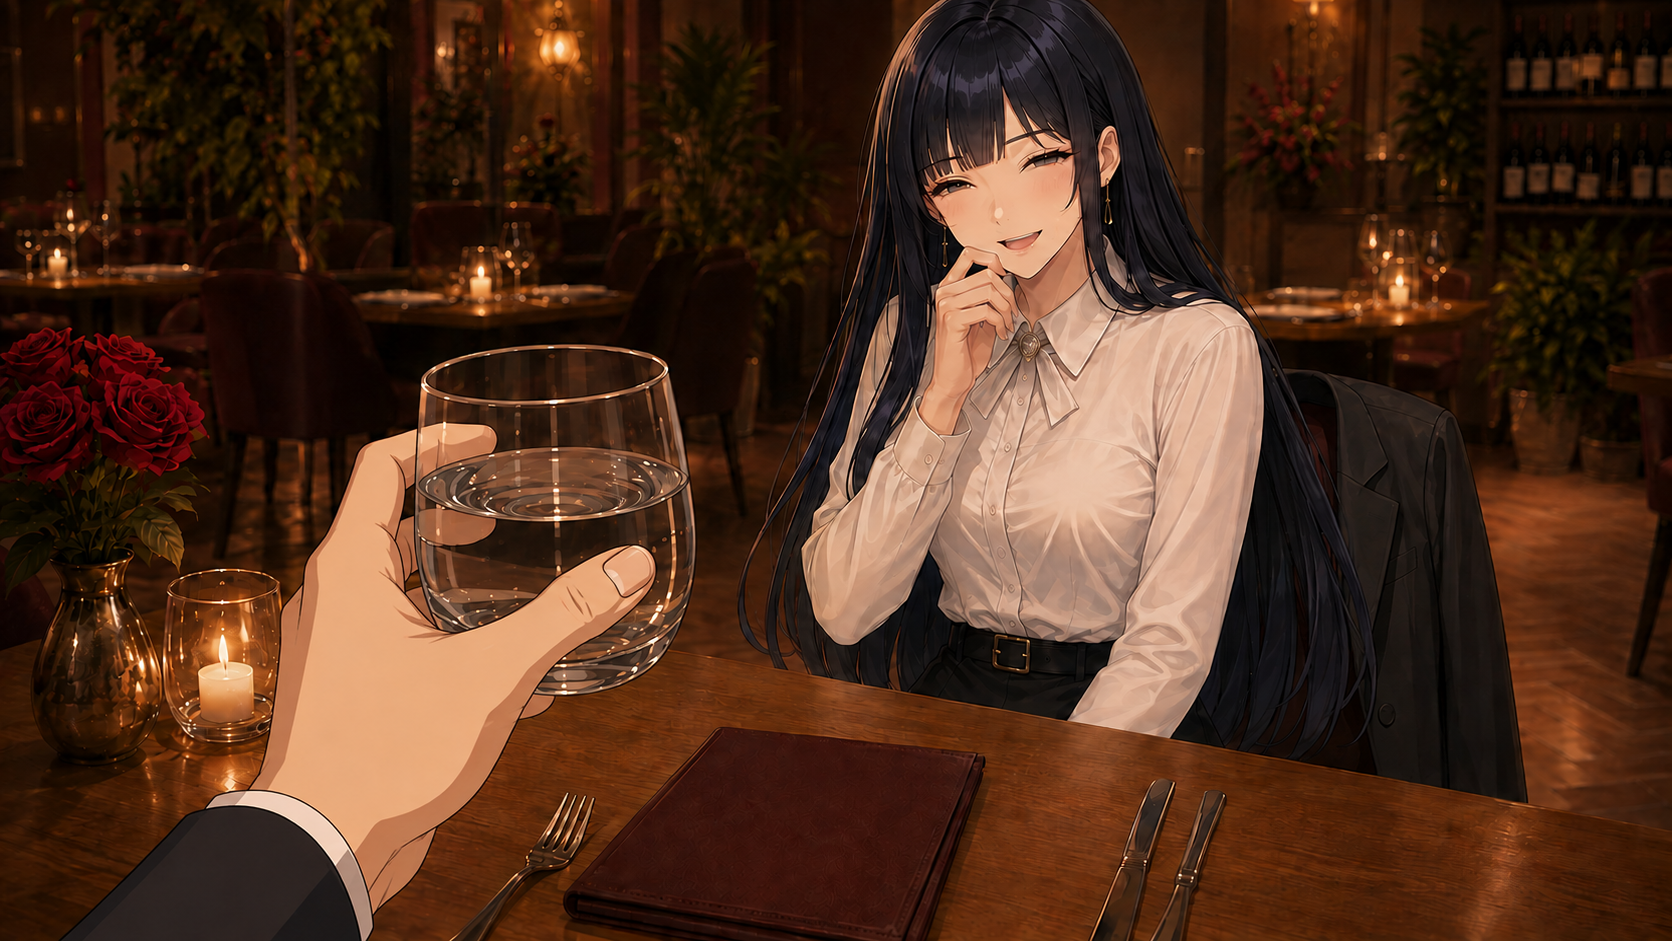
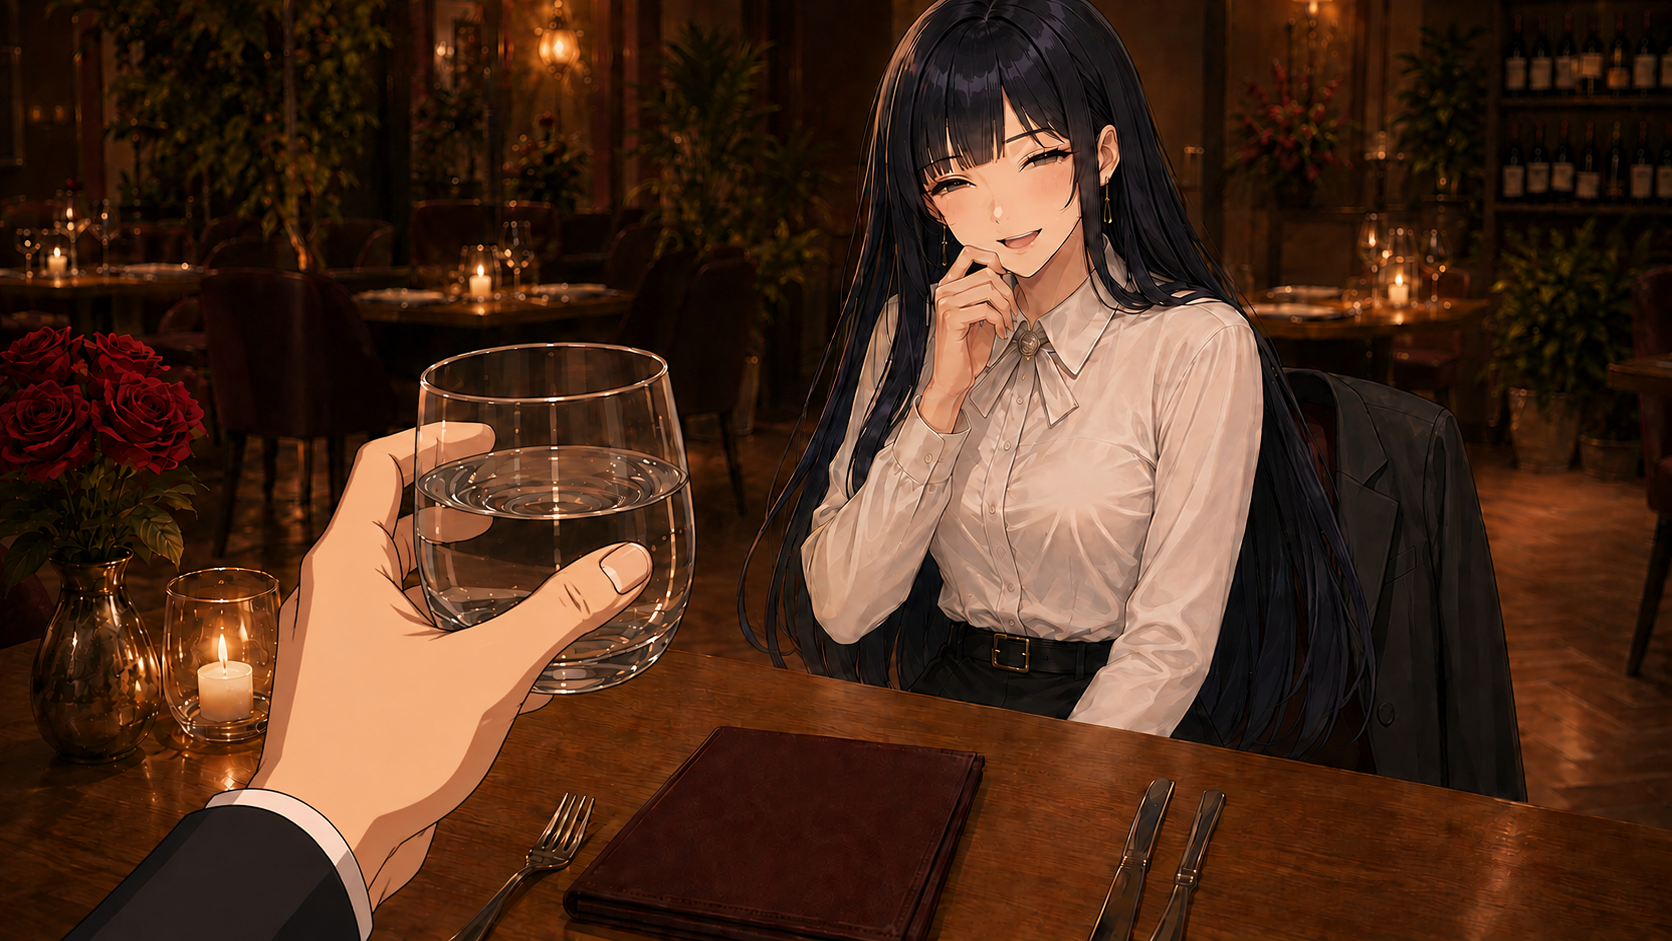
fix(story): enforce anime hand rendering

diff --git a/game.js b/game.js
@@ -81,7 +81,7 @@ import { applyDay16V4GameChoice, completeDay16V4GameChapter, getDay16V4Compatibi
 import { LOCKED_DAY17_SCENE_ID, applyLockedDay17ChoiceState, getLockedDay17LegacyChoice, getLockedDay17ResumePresentation, getLockedDay17Segment } from "./src/day17-campaign-runtime.mjs?v=1";
 import { applyDay17V4GameChoice, completeDay17V4GameChapter, getDay17V4Compatibility, getDay17V4GameResumePresentation, getDay17V4GameSegment, prepareDay17V4GameEntry } from "./src/day17-v4-game-bridge.mjs?v=3";
 import { LOCKED_DAY18_SCENE_ID, applyLockedDay18ChoiceState as applyLegacyDay18ChoiceState, getLockedDay18LegacyChoice, getLockedDay18ResumePresentation as getLegacyDay18ResumePresentation, getLockedDay18Segment as getLegacyDay18Segment } from "./src/day18-campaign-runtime.mjs?v=1";
-import {prepareDay18V4GameEntry, getDay18V4GameSegment, getDay18V4GameResumePresentation, applyDay18V4GameChoice, completeDay18V4GameChapter} from "./src/day18-v4-game-bridge.mjs?v=56";
+import {prepareDay18V4GameEntry, getDay18V4GameSegment, getDay18V4GameResumePresentation, applyDay18V4GameChoice, completeDay18V4GameChapter} from "./src/day18-v4-game-bridge.mjs?v=57";
 import { LOCKED_DAY19_SCENE_ID, applyLockedDay19ChoiceState, getLockedDay19LegacyChoice, getLockedDay19ResumePresentation, getLockedDay19Segment } from "./src/day19-campaign-runtime.mjs?v=1";
 import { applyDay19V4GameChoice, completeDay19V4GameChapter, getDay19V4GameCompatibility, getDay19V4GameResumePresentation, getDay19V4GameSegment, prepareDay19V4GameEntry } from "./src/day19-v4-game-bridge.mjs?v=4";
 import { LOCKED_DAY20_SCENE_ID, applyLockedDay20ChoiceState, getLockedDay20LegacyChoice, getLockedDay20ResumePresentation, getLockedDay20Segment } from "./src/day20-campaign-runtime.mjs?v=1";

diff --git a/tests/day19-v4-browser-entry.html b/tests/day19-v4-browser-entry.html
@@ -15,7 +15,7 @@ import {createGirlfriendFromProfile} from '../src/girlfriend-manager.mjs';
 import {SaveManager} from '../src/save-manager.mjs';
 import {GAME_MODES} from '../src/scenario-state.mjs';
 import {beginDay18V4,applyDay18V4Choice} from '../src/day18-v4-state-contract.mjs';
-import {completeDay18V4GameChapter} from '../src/day18-v4-game-bridge.mjs?v=56';
+import {completeDay18V4GameChapter} from '../src/day18-v4-game-bridge.mjs?v=57';
 const backupKey='day19-v4-qa-save-backup';
 const keys=[SaveManager.key,SaveManager.keyForMode(GAME_MODES.MARRIAGE_30),SaveManager.keyForMode(GAME_MODES.FREE_ROMANCE)];
 function backup(){if(sessionStorage.getItem(backupKey)===null)sessionStorage.setItem(backupKey,JSON.stringify(Object.fromEntries(keys.map(key=>[key,localStorage.getItem(key)]))));}

diff --git a/tests/day18-v4-browser-entry.html b/tests/day18-v4-browser-entry.html
@@ -41,7 +41,7 @@ import {createInitialState} from '../src/game-core.mjs';
 import {createGirlfriendFromProfile} from '../src/girlfriend-manager.mjs';
 import {SaveManager} from '../src/save-manager.mjs';
 import {GAME_MODES} from '../src/scenario-state.mjs';
-import {prepareDay18V4GameEntry,applyDay18V4GameChoice} from '../src/day18-v4-game-bridge.mjs?v=56';
+import {prepareDay18V4GameEntry,applyDay18V4GameChoice} from '../src/day18-v4-game-bridge.mjs?v=57';
 const backupKey = 'day18-v4-qa-save-backup';
 const keys = [SaveManager.key, SaveManager.keyForMode(GAME_MODES.MARRIAGE_30)];
 document.querySelectorAll('[data-route]').forEach(button => button.addEventListener('click', () => {

diff --git a/index.html b/index.html
@@ -279,6 +279,6 @@
     </article>
   </section>
   <div id="toast" class="toast"></div>
-  <script type="module" src="game.js?v=251"></script>
+  <script type="module" src="game.js?v=252"></script>
 </body>
 </html>

diff --git a/docs/DAY18_V4_HAND_STYLE_CORRECTION.md b/docs/DAY18_V4_HAND_STYLE_CORRECTION.md
@@ -24,7 +24,9 @@ DAY 18 손 포함 CG를 전수 육안 감사했다. `yuri-menu-wait-water-v1`, `
 
 2026-09-05 재노출 신고에서는 첨부 화면이 `yuri-menu-wait-water-v1.png`와 일치함을 확인했다. 소스가 이미 v2를 가리키더라도 캐시나 구버전 화면에서 혼동이 재발하지 않도록 전경 손의 외곽선과 2~3단계 셀 명암을 더 강제한 `yuri-menu-wait-water-v3.png`를 새 파일명으로 만들었다. 런타임·브리지·fixture·최상위 캐시 버전을 동시에 갱신하고 v1과 v2를 모두 런타임 금지 목록에 넣었다.
 
-후속 재발 방지에서는 런타임 경로 차단만으로는 오래 열린 탭·이전 저장·중간 캐시가 반려 URL을 재요청할 수 있다고 판단했다. 위 표의 반려 v1 파일과 유리 물 장면 v2 파일을 각각의 승인 v2/v3 비트맵과 바이트 단위로 동일하게 격리 교체했다. 현재 런타임은 여전히 새 버전 파일명만 참조하지만, 구버전 클라이언트가 과거 URL을 요청해도 실사 손 원본은 전달되지 않는다.
+같은 화면이 다시 신고된 후 `yuri-menu-wait-water-v4.png`를 정밀 편집으로 제작했다. 전경 손·노출 손목만 굵고 선명한 애니메이션 외곽선과 분리된 셀 명암으로 재고정하고, 유리의 얼굴·의상·자세, 물잔의 위치·수위, 식탁·메뉴·배경 구도는 보존했다. 런타임은 v4만 참조하며 v1~v3는 모두 런타임 금지 및 v4와 바이트 동일한 안전 대체본으로 격리했다. 캐시 사슬은 `game.js?v=252` → bridge v57 → 새 v4 이미지 URL로 갱신했다.
+
+후속 재발 방지에서는 런타임 경로 차단만으로는 오래 열린 탭·이전 저장·중간 캐시가 반려 URL을 재요청할 수 있다고 판단했다. 위 표의 반려 v1 파일과 유리 물 장면 v2·v3 파일을 각각의 승인 v2/v4 비트맵과 바이트 단위로 동일하게 격리 교체했다. 현재 런타임은 여전히 새 버전 파일명만 참조하지만, 구버전 클라이언트가 과거 URL을 요청해도 실사 손 원본은 전달되지 않는다.
 
 모든 수정은 기존 구도·행동·소품을 보존하는 정밀 편집으로 진행했다. 공통 최종 프롬프트 계약은 `clean 2D anime cel-shaded visual-novel line art`, 단순화한 관절과 2~3단계 넓은 명암, 사진식 피부·모공·혈관·체모·서브서피스·젖은 피부 하이라이트 금지다. imagegen 생성 원본은 Codex generated_images 보관 위치에 남겨 두고 프로젝트에는 승인된 버전 파일을 복사했다.
 
@@ -32,11 +34,16 @@ DAY 18 손 포함 CG를 전수 육안 감사했다. `yuri-menu-wait-water-v1`, `
 
 ## 런타임 계약
 
-- 유리 물 장면은 v3, 나머지 교체 자산은 위 v2를 참조한다.
-- 반려된 유리 물 v1·v2와 나머지 v1 이름은 실행 소스에 다시 들어갈 수 없다.
-- 자동 테스트는 모든 반려 파일명이 생성된 DAY18 세그먼트 어디에도 나타나지 않는지, 승인된 v3/v2 자산이 실제로 존재하는지 함께 검사한다.
-- 자동 테스트는 이미 배포된 반려 URL 10개가 대응 승인본과 바이트 단위로 동일한지도 검사한다.
+- 유리 물 장면은 v4, 나머지 교체 자산은 위 v2를 참조한다.
+- 반려된 유리 물 v1·v2·v3와 나머지 v1 이름은 실행 소스에 다시 들어갈 수 없다.
+- 자동 테스트는 모든 반려 파일명이 생성된 DAY18 세그먼트 어디에도 나타나지 않는지, 승인된 v4/v2 자산이 실제로 존재하는지 함께 검사한다.
+- 자동 테스트는 이미 배포된 반려 URL 11개가 대응 승인본과 바이트 단위로 동일한지도 검사한다.
 - 상세 재발 방지 규칙은 `docs/STORY_V4_IMAGE_STYLE_RULES.md`를 따른다.
+
+## v4 원본 검증
+
+- built-in imagegen `precise-object-edit`를 사용했다. 원본 생성 파일은 `exec-d585e3df-c673-44da-ab67-60594e2c23c9.png`, 프로젝트 최종본은 `assets/events/day18-v4/yuri-menu-wait-water-v4.png`다.
+- 1672×941 원본에서 전경 손의 다섯 손가락·유리잔 그립과 선명한 외곽선·2~3단계 셀 명암을 확인했다. 사진식 모공·혈관·체모·연속 피부 그라데이션은 없다.
 
 ## v3 실제 화면 재검증
 

diff --git a/docs/STORY_V4_IMAGE_STYLE_RULES.md b/docs/STORY_V4_IMAGE_STYLE_RULES.md
@@ -16,6 +16,8 @@
 10. 승인자는 **손 실루엣을 먼저 확인한 뒤 100% 확대**에서 선화와 명암을 검사한다. 축소 화면에서 자연스럽다는 이유로 통과시키지 않으며, 확대했을 때 피부 경계가 선이 아니라 사진식 톤 변화로만 보이면 즉시 반려한다.
 11. 수정본은 기존 파일을 덮어쓰지 않고 반드시 **새 버전 파일명**으로 연결한다. 런타임 경로, 브리지 import, fixture import, 최상위 `game.js`의 캐시 버전을 같은 커밋에서 올리고 실제 브라우저가 새 URL을 요청하는지 확인한다.
 12. 이미 배포된 반려 파일이 사용자 화면에 재노출된 경우에는 일반 버전 보존 원칙보다 안전을 우선한다. 런타임은 계속 최신 버전 URL만 사용하되, 과거 런타임이나 저장 재개가 요청할 수 있는 **구버전 URL의 파일 내용도 승인본과 바이트 단위로 동일하게 격리 교체**한다. 자동 테스트는 모든 반려 URL과 대응 승인본의 바이트 동일성을 검사해야 하며, 구버전 URL에 실사 손 원본을 남겨 두지 않는다.
+13. 이 규칙은 DAY 18 이후에만 한정하지 않는다. **모든 기존·신규 스토리 CG, 이벤트 CG, 행동 결과 이미지, 배경에 합성된 인체 부위**에 적용한다. 새 시나리오를 연결하기 전에 그 시나리오가 실제로 참조하는 이미지 목록을 추출하고, 손·손목·팔·발 등 노출 인체가 하나라도 있으면 같은 화풍 관문을 먼저 통과시킨다.
+14. 손이 `매끈하다`는 이유만으로 승인하지 않는다. 캐릭터 얼굴과 나란히 보았을 때 손에도 읽을 수 있는 외곽선, 분리된 명암 경계, 단순화된 관절 표현이 모두 있어야 한다. 피부가 연속적인 빛 번짐이나 사진식 볼륨으로만 형태를 만들면 모공이 보이지 않아도 `화풍 FAIL`이다.
 
 ## 생성·편집 프롬프트 규칙
 
@@ -39,3 +41,4 @@
 7. 배포 전 실제 브라우저에서 일반 진입과 저장 재개를 각각 확인하고, 개발자 도구의 실제 이미지 URL이 승인된 최신 버전인지 검사한다. 화면이 최신처럼 보여도 URL이 반려 버전이면 FAIL이다.
 8. 최종 캡처에서는 손만 따로 보지 않는다. 같은 프레임의 얼굴·의상 선화와 손의 외곽선 굵기, 피부 명암 단계, 질감 밀도를 나란히 비교하고 셋 중 하나라도 더 사실적으로 읽히면 `화풍 FAIL`로 기록한다.
 9. 현장 재노출 신고가 들어오면 화면과 자산을 해시·구도로 대조하고, 최신 런타임 URL뿐 아니라 같은 장면의 모든 과거 URL을 직접 요청해 검사한다. 하나라도 반려 비트맵을 반환하면 배포 불합격이다.
+10. 시나리오별 이미지 manifest에서 손 포함 자산을 명시적으로 표시하고, 신규 연결 커밋의 테스트는 반려 URL 비노출과 승인 URL 존재를 함께 검증한다. 이 목록이 없으면 해당 시나리오의 이미지 QA를 완료 처리하지 않는다.
